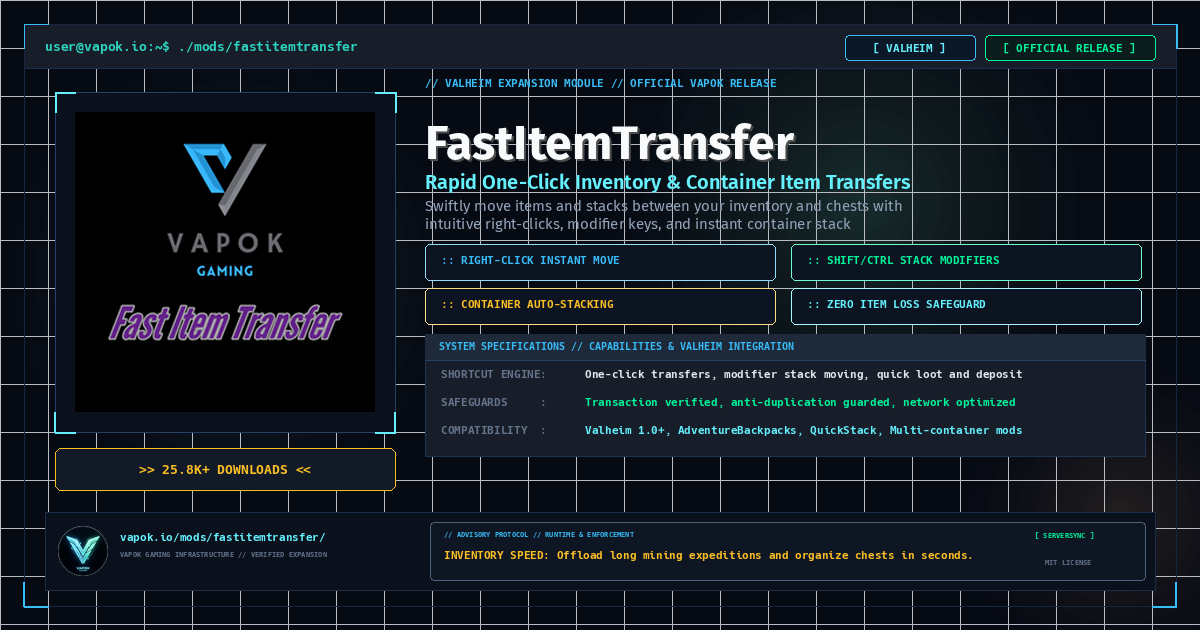
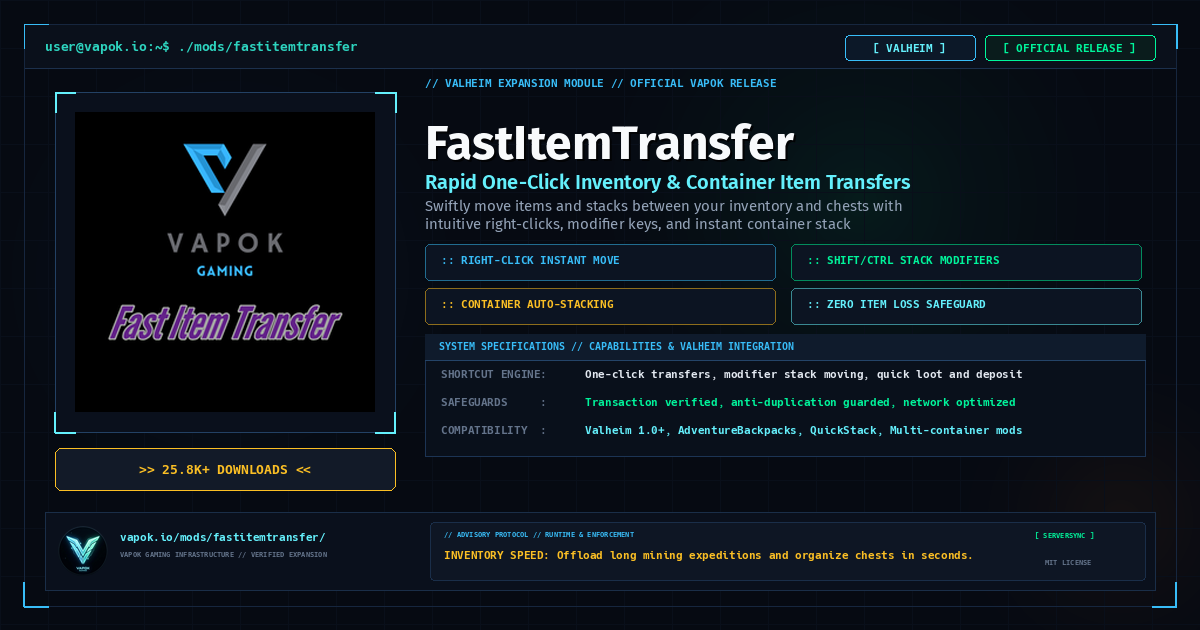
Fix: Eliminate PNG transparency channel across all OG cards for consistent browser and social media rendering

Changed region(s): [[0.37, 0.2111, 0.6783, 0.2714], [0.37, 0.3619, 0.6475, 0.3921], [0.6783, 0.3619, 0.925, 0.3921]]

diff --git a/scripts/generate_backpack_og_cards.py b/scripts/generate_backpack_og_cards.py
@@ -194,7 +194,9 @@ def generate_mod_card():
     draw.text((945, bot_y1 + 44), "VAPOK GAMING INFRASTRUCTURE", font=FONT_MONO_TINY, fill=TEXT_MUTED)
     
     out_file = os.path.join(OUTPUT_DIR, "adventurebackpacks-og.png")
-    img.save(out_file, "PNG", optimize=True)
+    final_img = Image.new("RGB", img.size, (6, 10, 18))
+    final_img.paste(img, (0, 0), img)
+    final_img.save(out_file, "PNG", optimize=True)
     print(f"Generated: {out_file} (Size: {os.path.getsize(out_file)} bytes)")
 
 # =========================================================================
@@ -402,7 +404,7 @@ def generate_recipes_card():
             
         # Biome Perk Pill with REAL PERK ICON (24x24 px)
         perk_y = card_y1 + 246
-        draw.rounded_rectangle([(cx1 + 8, perk_y), (cx2 - 8, perk_y + 62)], radius=4, fill=(0, 245, 155, 14), outline=(0, 245, 155, 80), width=1)
+        draw.rounded_rectangle([(cx1 + 8, perk_y), (cx2 - 8, perk_y + 62)], radius=4, fill=(10, 24, 28, 255), outline=(0, 245, 155, 180), width=1)
         
         p_path = f"assets/images/perks/{c['perk_icon']}"
         if os.path.exists(p_path):
@@ -428,7 +430,9 @@ def generate_recipes_card():
     draw.text((110, bot_y1 + 35), "vapok.io/mods/adventurebackpacks/recipes/ • Vapok Gaming Infrastructure", font=FONT_MONO_XS, fill=CYAN_ACCENT)
     
     out_file = os.path.join(OUTPUT_DIR, "recipes-og.png")
-    img.save(out_file, "PNG", optimize=True)
+    final_img = Image.new("RGB", img.size, (5, 8, 15))
+    final_img.paste(img, (0, 0), img)
+    final_img.save(out_file, "PNG", optimize=True)
     print(f"Generated: {out_file} (Size: {os.path.getsize(out_file)} bytes)")
 
 if __name__ == "__main__":

diff --git a/scripts/generate_all_mod_og_cards.py b/scripts/generate_all_mod_og_cards.py
@@ -633,7 +633,9 @@ def generate_card_for_mod(mod_data):
     draw.text((1035, prompt_box_y + 9), "[ SERVERSYNC ]", font=FONT_MONO_MICRO, fill=MINT_ACCENT)
     draw.text((1045, prompt_box_y + 36), "MIT LICENSE", font=FONT_MONO_MICRO, fill=TEXT_MUTED)
     
-    img.save(out_file, "PNG", optimize=True)
+    final_img = Image.new("RGB", img.size, (6, 10, 18))
+    final_img.paste(img, (0, 0), img)
+    final_img.save(out_file, "PNG", optimize=True)
     print(f"Generated: {out_file} (Size: {os.path.getsize(out_file)} bytes)")
 
 def update_mod_markdown_files():
